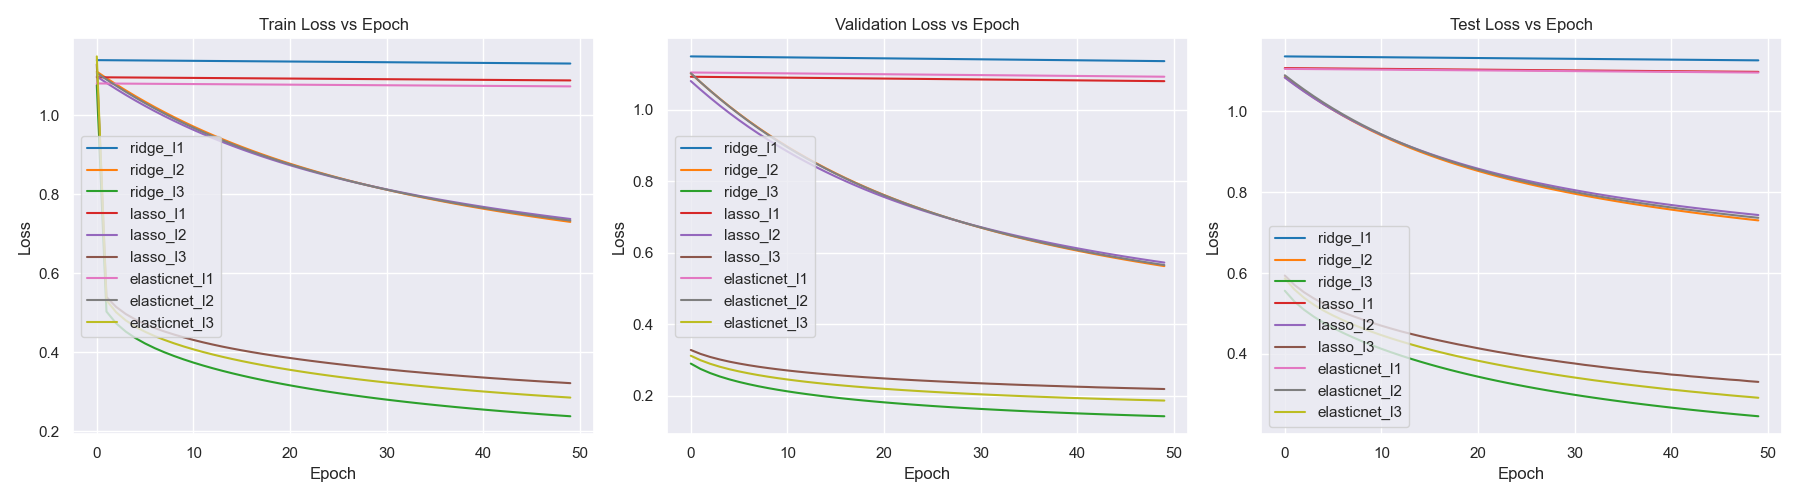
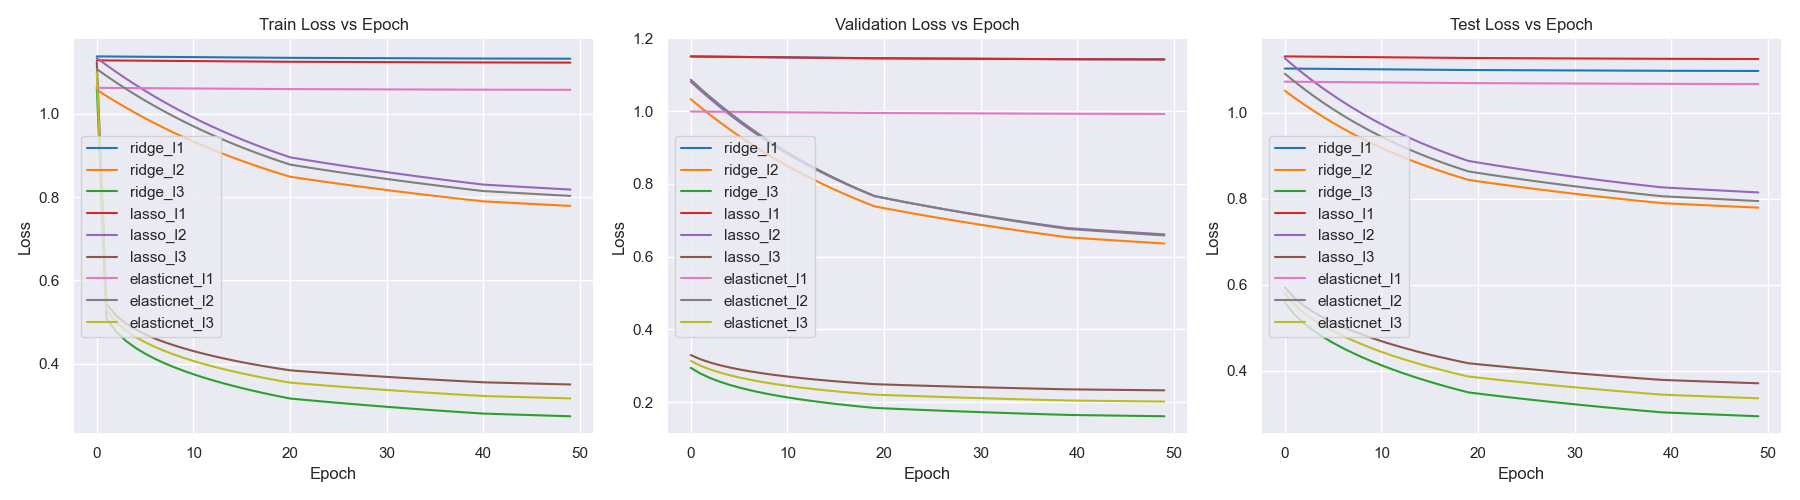
Learning rate scheduler added and readme changes

diff --git a/src/train.py b/src/train.py
@@ -30,6 +30,10 @@ def train_model(model, X_train, y_train, X_val, y_val, X_test, y_test, lr, reg_t
     criterion = torch.nn.CrossEntropyLoss()
     optimizer = torch.optim.SGD(model.parameters(), lr=lr)
     
+    # Step scheduler: reduces LR by half every 20 epochs(this was optional in the pdf so I added
+    #to prevent overfitting)
+    scheduler = torch.optim.lr_scheduler.StepLR(optimizer, step_size=20, gamma=0.5)
+    
     history = {'train_loss': [], 'val_loss': [], 'test_loss': []}
     
     lambda_val = 0.01 # You can tune this
@@ -47,6 +51,9 @@ def train_model(model, X_train, y_train, X_val, y_val, X_test, y_test, lr, reg_t
         optimizer.zero_grad()
         total_loss.backward()
         optimizer.step()
+        
+        # Step the learning rate scheduler
+        scheduler.step()
         
         # Evaluate on train
         history['train_loss'].append(total_loss.item())

diff --git a/README.md b/README.md
@@ -1,13 +1,72 @@
-# PyTorch Softmax Regression Assignment
+# PyTorch Softmax Regression (Iris Dataset)
 
-Bu proje CMPE 442 (Introduction to Machine Learning) dersi "Programming Assignment-1" için bir iskelet kod (skeleton code) ve çalışma alanıdır.
+[English](#english) | [Türkçe](#türkçe)
 
-## Gereksinimler ve Kurulum
+---
+
+## English
+
+This project is a workspace and skeleton code for the CMPE 442 (Introduction to Machine Learning) "Programming Assignment-1".
+
+### Requirements & Setup
+The required Python libraries for the project are listed in `requirements.txt`. You can install the libraries without affecting your system by setting up and running a Python Virtual Environment (`venv`).
+
+A virtual environment folder named `venv` has already been created for you.
+
+#### 1- Activating the Environment
+Open a terminal in the project's root directory (this folder) on Windows:
+
+```cmd
+venv\Scripts\activate
+```
+
+When successfully activated, you will see `(venv)` on the left side of the line.
+
+#### 2- Installing Required Packages
+```cmd
+pip install -r requirements.txt
+```
+
+This command installs the packages specified in the assignment such as PyTorch, Scikit-Learn, Matplotlib, Numpy, Pandas, and Seaborn.
+
+---
+
+### Project File Structure and Solution Path
+
+To keep the code modular and avoid clutter, it is divided into parts within the `src/` folder:
+
+- `src/dataset.py`: Imports the Iris dataset from Sklearn, splits the data into 70%, 15%, 15% train/val/test sets, and converts it to PyTorch tensors. The feature expansion for linear, quadratic ($x_i^2$, $x_i x_j$), and 3rd order (cubic) terms have been completed here.
+- `src/model.py`: The place where you build your model. In the assignment, using `nn.Linear` is **forbidden**, and it is required to use Matrix operations with `Weight (W)` and `Bias (b)` values for Softmax. These matrix weights are created here as PyTorch Tensors.
+- `src/train.py`: Contains the K-Fold (K=3) cross-validation to select the best polynomial degree, the training loop, and where regularizations (Ridge, Lasso, ElasticNet) are applied. A Learning Rate Scheduler has also been added here to improve convergence.
+- `src/plot.py`: Contains matplotlib/seaborn code to plot the Train, Validation, and Test losses based on Epoch values, and calculates the "Accuracy, Precision, Recall, F1" metrics for the best model.
+- `src/main.py`: The main flow that connects all parts together. It evaluates 3 different Regularizations x 3 different Learning Rates = a total of 9 models, trains them sequentially, and prints the evaluation metrics to the console.
+
+Additionally, you should review terms like `Bias-Variance` analysis and evaluate the generated figure lines for the 9 models, and include them in your `report.pdf`.
+
+---
+**Important Notes:**
+- Do not forget to use the Virtual Environment!
+- Pay close attention to the rule of not using the `nn.Linear()` function in your assignment.
+
+Good luck!
+
+<br>
+
+---
+---
+
+<br>
+
+## Türkçe
+
+Bu proje CMPE 442 (Introduction to Machine Learning) dersi "Programming Assignment-1" için bir çalışma alanı ve tamamlanmış iskelet koddur.
+
+### Gereksinimler ve Kurulum
 Projenin ihtiyaç duyduğu Python kütüphaneleri `requirements.txt` dosyasında listelenmiştir. Python Virtual Environment (`venv`) ortamını kurup çalıştırarak sisteme etki etmeden kütüphaneleri kurabilirsiniz.
 
 Sizin için `venv` isminde bir virtual environment klasörü oluşturulmuştur.
 
-### 1- Ortamı (Environment) Aktif Etme
+#### 1- Ortamı (Environment) Aktif Etme
 Windows komut satırında proje ana dizininde (bu klasörde) terminal açın:
 
 ```cmd
@@ -16,24 +75,24 @@ venv\Scripts\activate
 
 Kurulum başarılı şekilde tamamlandığında satırın solunda `(venv)` yazacaktır.
 
-### 2- Gerekli Paketlerin Yüklenmesi
+#### 2- Gerekli Paketlerin Yüklenmesi
 ```cmd
 pip install -r requirements.txt
 ```
 
-Bu kod; PyTorch, Scikit-Learn, Matplotlib, Numpy ve Pandas gibi ödevde belirtilen paketleri yükler.
+Bu kod; PyTorch, Scikit-Learn, Matplotlib, Numpy, Pandas ve Seaborn gibi ödevde belirtilen paketleri yükler.
 
 ---
 
-## Proje Dosya Yapısı ve Çözüm Yolu
+### Proje Dosya Yapısı ve Çözüm Yolu
 
 Kod modüler olması ve karmaşanın engellenmesi amacıyla `src/` klasörü içerisinde parçalara ayrılmıştır:
 
-- `src/dataset.py`: Iris veri setinin yüklenmesi, belirtilen `%.70, %.15, %.15` veri ayırma işlemi ve polinom özellik genişletme bölümünü gerçekleştirir. "TODO" şeklinde belirtilen lineer, kuadratik, 3. dereceden polinom terimlerini (Örn. $x_i^2$, $x_i x_j$) genişletme adımlarını burada tamamlayabilirsiniz.
+- `src/dataset.py`: Iris veri setinin Sklearn içinden yüklenmesi, belirtilen `%70, %15, %15` veri ayırma işlemi ve verinin PyTorch tensörlerine çevrilmesi işlemini gerçekleştirir. Lineer, kuadratik ($x_i^2$, $x_i x_j$), ve 3. dereceden ($x_i^3$, $x_i x_j x_k$) polinom terimlerini genişletme adımları koda dahil edilmiştir.
 - `src/model.py`: Modelinizi inşa edeceğiniz yer. Ödevde, `nn.Linear` kullanmanız **yasaklanmış** ve `Ağırlık (Weight)` ve `Eğim (Bias)` değerlerini Matrix operasyonlarıyla kullanarak Softmax yapılması istenmiştir. Bu matris ağırlıkları bu dosyada PyTorch Tensörleri olarak oluşturulmuştur.
-- `src/train.py`: Cross Validation (K=3) ile en iyi dereceyi seçmek ve modelin train dongüsü ve regularizasyonlarin (Ridge, Lasso, ElasticNet) `for` loop içinde çalıştırıldığı yerdir.
-- `src/plot.py`: Train, Validation, Test kayıplarının (Loss) Epoch değerine göre çizilmesi ve "Accuracy, Precision, Recall, F1" hesaplarının olduğu matplotlib kodlarıdır.
-- `src/main.py`: Bütün parçaları birbirine bağlayan ana akıştır. 3 farkli Regularizasyon x 3 farklı öğrenme oranı (Learning Rate) = Toplam 9 modeli teker teker bu dosya eğitir (train).
+- `src/train.py`: Cross Validation (K=3) ile en iyi dereceyi seçmek, modelin train döngüsü ve regularizasyonların (Ridge, Lasso, ElasticNet) uygulandığı yerdir. Ayrıca hedefe yaklaşırken yakınsamayı kolaylaştırmak için Learning Rate Scheduler eklenmiştir.
+- `src/plot.py`: Train, Validation, Test kayıplarının (Loss) Epoch değerine göre çizilmesi ve en başarılı model üzerinden "Accuracy, Precision, Recall, F1" hesaplarının yapıldığı matplotlib/seaborn kodlarıdır.
+- `src/main.py`: Bütün parçaları birbirine bağlayan ana akıştır. 3 farklı Regularizasyon x 3 farklı öğrenme oranı (Learning Rate) = Toplam 9 modeli teker teker eğitir, figürleri çıkarır ve sonuç verilerini konsola basar.
 
 Ayrıca yazılacak raporda eklenmesi istenilen `Bias-Variance` analizi gibi metinleri ve oluşan 9 model için olan figür çizimlerini değerlendirerek `report.pdf` şeklinde projenize eklemelisiniz.
 
